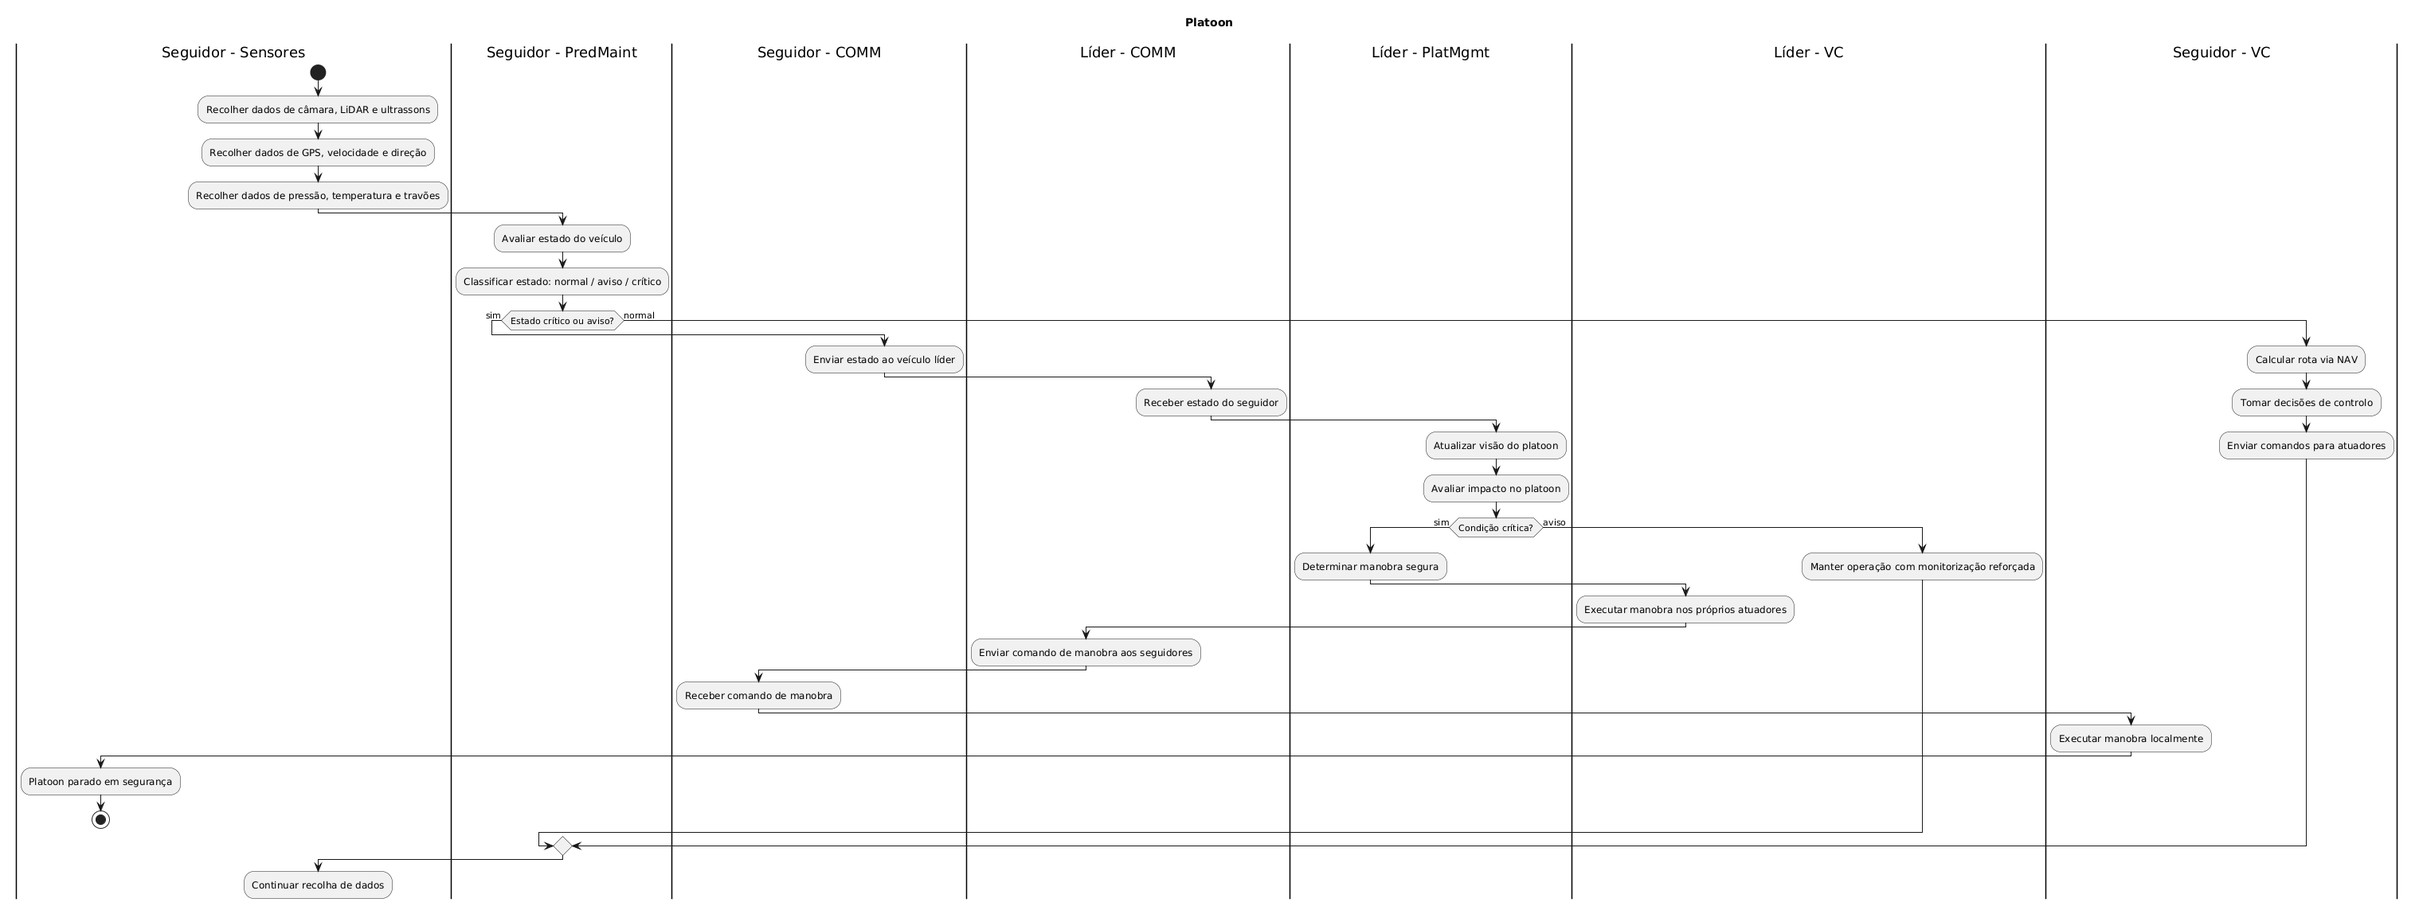
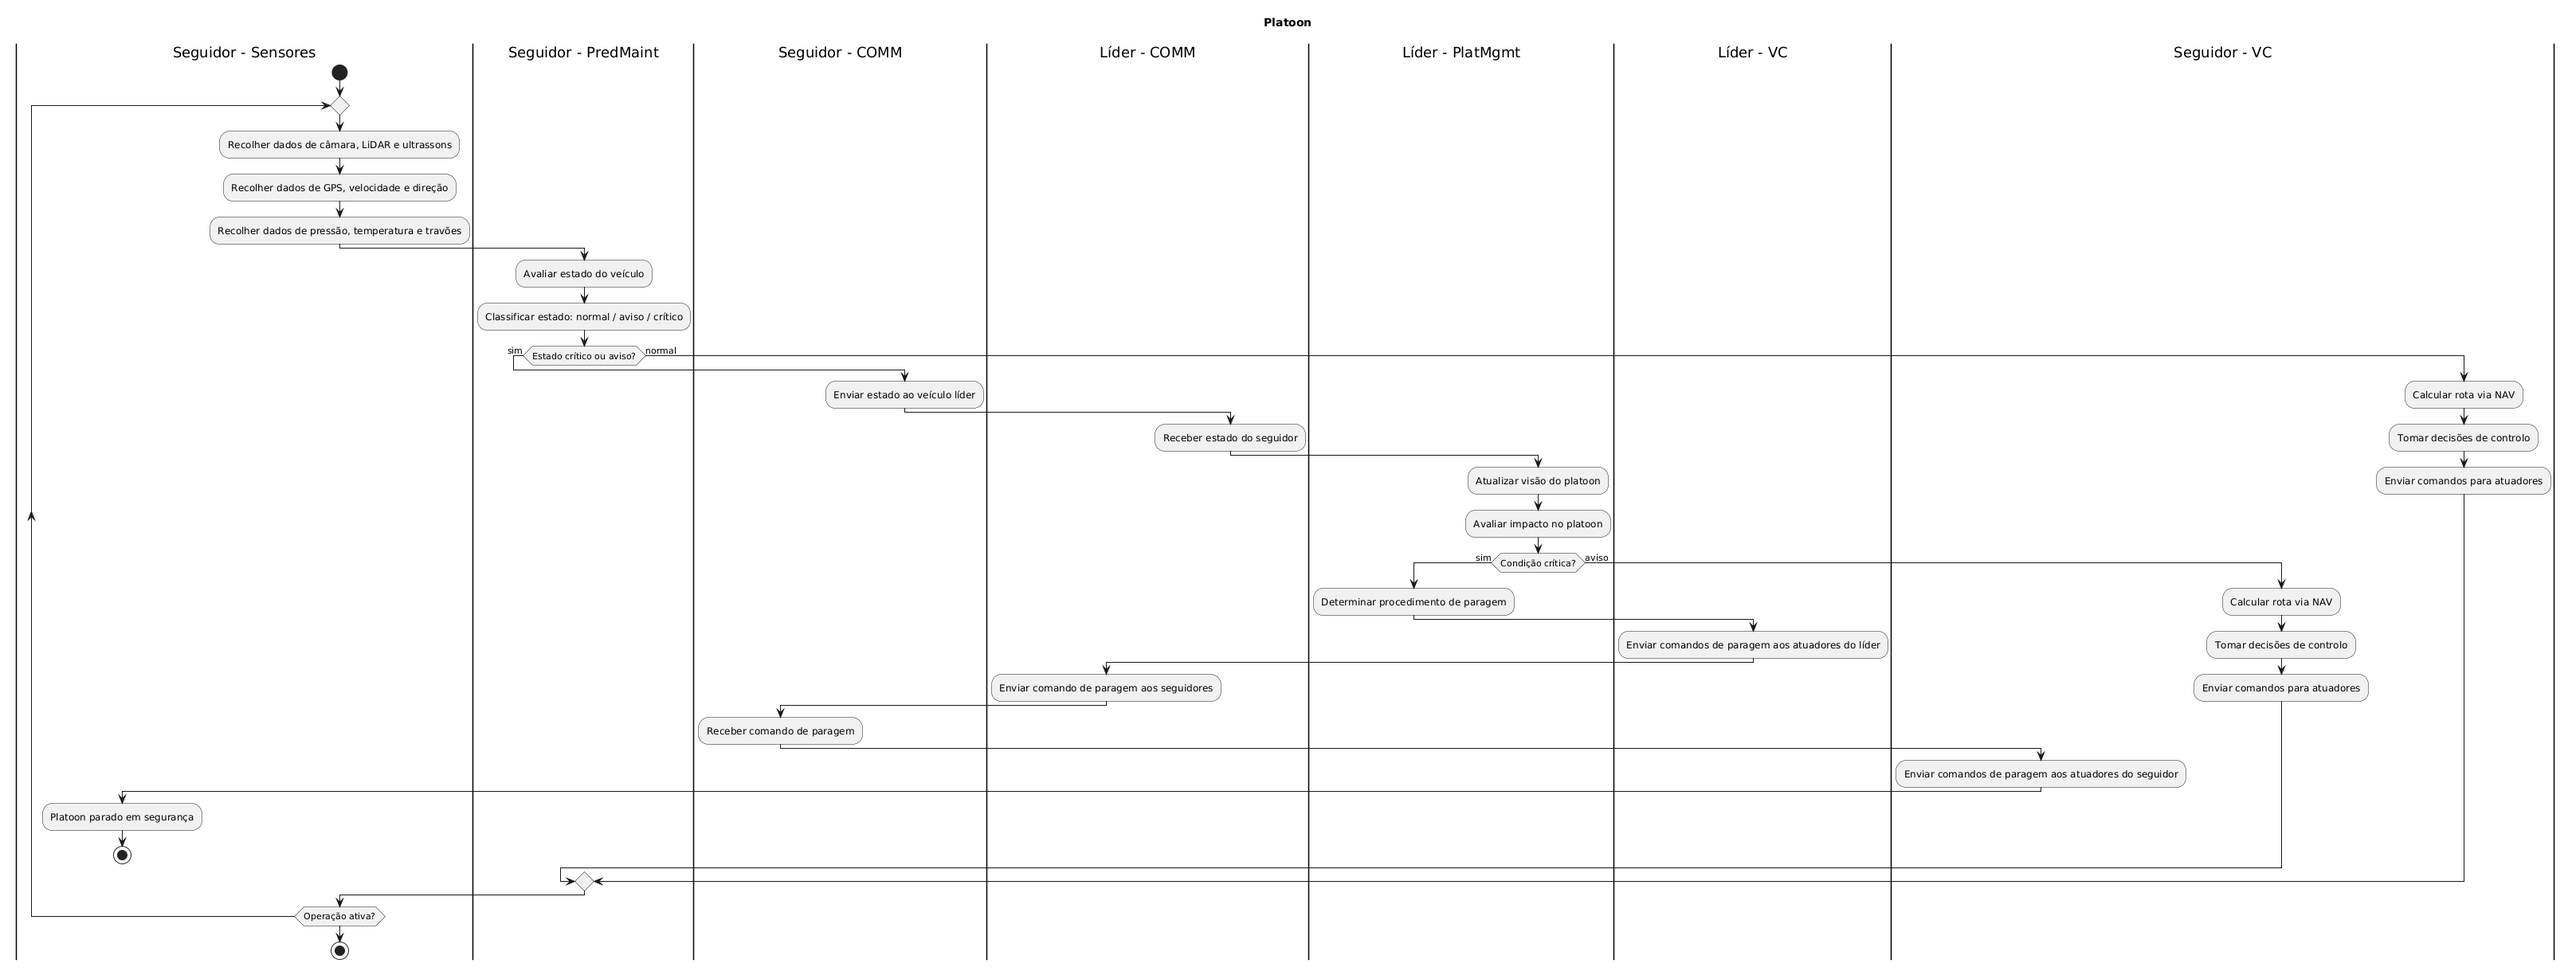
update report

diff --git a/sprint2/readme.md b/sprint2/readme.md
@@ -76,7 +76,6 @@ Para visualização do planeamento deste sprint, apresentamos o seguinte diagram
 
 ## 2. VEVCA
 
-
 ### 2.1 Melhorias Sprint 1
 
 #### Descrição dos componentes
@@ -189,18 +188,36 @@ Com base nos principais nós da arquitetura proposta, foram identificados alguns
 
 ##### Análise HAZOP
 
-| Nó/Função | Parâmetro | Palavra-guia | Desvio | Possíveis causas | Possíveis consequências | Salvaguardas existentes/propostas | Recomendações |
-|---|---|---|---|---|---|---|---|
-| Sensores de perceção | Dados de câmaras, LiDAR e sensores ultrassónicos | Não | Sem dados de perceção disponíveis | Falha de sensor, câmara obstruída, falha do LiDAR, falha de cablagem, falha de entrada na ECU | O veículo pode não detetar obstáculos, limites da via ou veículos próximos | Verificação automática dos sensores e deteção de ausência de dados | Avisar o VC quando os dados de perceção não estiverem disponíveis e impedir decisões baseadas nesses dados |
-| Processamento de perceção | Objetos / limites da via detetados | Errado | Obstáculos ou limites da via são detetados incorretamente | Mau tempo, ruído nos sensores, erro de calibração, falha no algoritmo de perceção | Decisão incorreta de trajetória, distância insegura entre veículos, possível colisão | Comparação entre câmara, LiDAR e sensores ultrassónicos | Confirmar objetos e limites da via com mais do que um sensor antes de enviar a informação ao VC |
-| Localização | Posição do veículo | Errado | A posição do veículo é estimada incorretamente | Erro de GPS, perda de sinal, inconsistência com o mapa, falha no algoritmo de localização | Seguimento incorreto da trajetória ou estimativa incorreta da posição do veículo no platoon | Comparação entre GPS, velocidade das rodas e dados de movimento | Se a posição não for fiável, usar dados de movimento recentes e avisar o PlatMgmt |
-| Sensores de movimento | Velocidade / ângulo de direção | Errado | O estado de movimento do veículo é estimado incorretamente | Falha no sensor de velocidade das rodas, falha no sensor de direção, erro de calibração, leituras desatualizadas | O VC pode calcular comandos inseguros de aceleração, travagem ou direção | Verificação de limites aceitáveis, timestamps e comparação com leituras anteriores | Rejeitar medições fora dos valores esperados ou incoerentes com o estado anterior do veículo |
-| Manutenção preditiva | Estado de saúde do veículo | Não | A avaria não é detetada | Falha no PredMaint, falta de dados de diagnóstico, falha de sensor | O veículo continua a operar com uma falha não detetada | Verificações periódicas do estado do veículo | Verificar pressão dos pneus, temperatura do motor e estado dos travões em cada "ciclo" de monitorização |
-| Manutenção preditiva | Severidade da avaria | Errado | Avaria crítica classificada como não crítica | Regra de classificação mal definida, falha no algoritmo, dados desatualizados, entrada incorreta de sensores | O platoon pode continuar a operar quando deveria parar | Verificação dos valores dos sensores e comparação com valores esperados | Quando os dados forem incertos ou incompletos, classificar a situação como mais grave e informar o líder |
-| Comunicação seguidor-líder | Tempo da mensagem de estado | Tarde | O estado de avaria do seguidor chega demasiado tarde ao líder | Atraso na rede, perda de pacotes, congestionamento de comunicação, sobrecarga da ECU | O líder atualiza o estado do platoon tarde demais e pode atrasar a decisão de paragem | Timestamps nas mensagens e deteção de atraso | Definir um tempo máximo para receber mensagens de avaria, se esse tempo for excedido, o líder deve assumir perda de informação |
-| Comunicação seguidor-líder | Mensagem de estado | Não | A mensagem de estado do seguidor não é recebida pelo líder | Falha de comunicação, falha da antena, perda de pacotes, falha da ECU de comunicação | O líder fica com uma visão incompleta do platoon e pode não reagir à avaria do seguidor | Mensagens periódicas de presença, confirmação de receção (ACK) e reenvio de mensagens críticas | Se o líder deixar de receber mensagens de um seguidor, deve marcar esse veículo como não fiável e atualizar o estado do platoon |
-| Gestão do platoon | Visão do estado do platoon | Errado | O líder mantém uma visão incorreta do platoon | Dados desatualizados, dados atribuídos ao veículo errado, erro de sincronização, mensagem corrompida | O líder pode tomar uma decisão insegura ao nível do platoon | Verificação de timestamps, origem das mensagens e coerência entre estados dos veículos | Rejeitar mensagens antigas, corrompidas ou incoerentes antes de atualizar a visão do platoon |
-| Controlo do veículo / atuadores | Comando de paragem / controlo | Não | O comando de paragem ou controlo não é executado | Falha no VC, falha na ECU do atuador, falha de interface, falha na direção, travagem ou powertrain | O veículo ou o platoon pode não conseguir parar após uma avaria crítica | Confirmação de comandos e feedback dos atuadores | Exigir confirmação dos atuadores, se a confirmação não for recebida, o sistema deve repetir o comando e alertar o líder |
+| Nó/Função                       | Parâmetro                                        | Palavra-guia | Desvio                                                        | Possíveis causas                                                                                                 | Possíveis consequências                                                                     | Salvaguardas existentes/propostas                                                              | Recomendações                                                                                                                   | Responsável                                                                     |
+| ------------------------------- | ------------------------------------------------ | ------------ | ------------------------------------------------------------- | ---------------------------------------------------------------------------------------------------------------- | ------------------------------------------------------------------------------------------- | ---------------------------------------------------------------------------------------------- | ------------------------------------------------------------------------------------------------------------------------------- | ------------------------------------------------------------------------------- |
+| Sensores de perceção            | Dados de câmaras, LiDAR e sensores ultrassónicos | Não          | Sem dados de perceção disponíveis                             | Falha de sensor, câmara obstruída, falha do LiDAR, falha de cablagem, falha de entrada na ECU                    | O veículo pode não detetar obstáculos, limites da via ou veículos próximos                  | Verificação automática dos sensores e deteção de ausência de dados                             | Avisar o VC quando os dados de perceção não estiverem disponíveis e impedir decisões baseadas nesses dados                      | Engenheiro mecatrónico + Functional safety engineer                             |
+| Processamento de perceção       | Objetos / limites da via detetados               | Errado       | Obstáculos ou limites da via são detetados incorretamente     | Mau tempo, ruído nos sensores, erro de calibração, falha no algoritmo de perceção                                | Decisão incorreta de trajetória, distância insegura entre veículos, possível colisão        | Comparação entre câmara, LiDAR e sensores ultrassónicos                                        | Confirmar objetos e limites da via com mais do que um sensor antes de enviar a informação ao VC                                 | Machine learning engineer + engenheiro mecatrónico                              |
+| Localização                     | Posição do veículo                               | Errado       | A posição do veículo é estimada incorretamente                | Erro de GPS, perda de sinal, inconsistência com o mapa, falha no algoritmo de localização                        | Seguimento incorreto da trajetória ou estimativa incorreta da posição do veículo no platoon | Comparação entre GPS, velocidade das rodas e dados de movimento                                | Se a posição não for fiável, usar dados de movimento recentes e avisar o PlatMgmt                                               | Engenheiro de software + Planning/control engineer                              |
+| Sensores de movimento           | Velocidade / ângulo de direção                   | Errado       | O estado de movimento do veículo é estimado incorretamente    | Falha no sensor de velocidade das rodas, falha no sensor de direção, erro de calibração, leituras desatualizadas | O VC pode calcular comandos inseguros de aceleração, travagem ou direção                    | Verificação de limites aceitáveis, timestamps e comparação com leituras anteriores             | Rejeitar medições fora dos valores esperados ou incoerentes com o estado anterior do veículo                                    | Engenheiro mecatrónico + Testing/validation engineer                            |
+| Manutenção preditiva            | Estado de saúde do veículo                       | Não          | A avaria não é detetada                                       | Falha no PredMaint, falta de dados de diagnóstico, falha de sensor                                               | O veículo continua a operar com uma falha não detetada                                      | Verificações periódicas do estado do veículo                                                   | Verificar pressão dos pneus, temperatura do motor e estado dos travões em cada "ciclo" de monitorização                         | Machine learning engineer + Functional safety engineer                          |
+| Manutenção preditiva | Severidade da avaria | Errado | Avaria crítica classificada como não crítica | Regra de classificação mal definida, falha no algoritmo, dados desatualizados, entrada incorreta de sensores | O platoon pode continuar a operar quando deveria parar | Verificação dos valores dos sensores e comparação com valores esperados | Quando os dados forem incertos ou incompletos, classificar a situação como mais grave e informar o líder | Functional safety engineer + tech lead |
+| Comunicação seguidor-líder      | Tempo da mensagem de estado                      | Tarde        | O estado de avaria do seguidor chega demasiado tarde ao líder | Atraso na rede, perda de pacotes, congestionamento de comunicação, sobrecarga da ECU                             | O líder atualiza o estado do platoon tarde demais e pode atrasar a decisão de paragem       | Timestamps nas mensagens e deteção de atraso                                                   | Definir um tempo máximo para receber mensagens de avaria, se esse tempo for excedido, o líder deve assumir perda de informação  | Engenheiro de software + Testing/validation engineer                            |
+| Comunicação seguidor-líder      | Mensagem de estado                               | Não          | A mensagem de estado do seguidor não é recebida pelo líder    | Falha de comunicação, falha da antena, perda de pacotes, falha da ECU de comunicação                             | O líder fica com uma visão incompleta do platoon e pode não reagir à avaria do seguidor     | Mensagens periódicas de presença, confirmação de receção (ACK) e reenvio de mensagens críticas | Se o líder deixar de receber mensagens de um seguidor, deve marcar esse veículo como não fiável e atualizar o estado do platoon | Engenheiro de software + engenheiro eletrotécnico                               |
+| Gestão do platoon               | Visão do estado do platoon                       | Errado       | O líder mantém uma visão incorreta do platoon                 | Dados desatualizados, dados atribuídos ao veículo errado, erro de sincronização, mensagem corrompida             | O líder pode tomar uma decisão insegura ao nível do platoon                                 | Verificação de timestamps, origem das mensagens e coerência entre estados dos veículos         | Rejeitar mensagens antigas, corrompidas ou incoerentes antes de atualizar a visão do platoon                                    | Engenheiro de software + Functional safety engineer                             |
+| Controlo do veículo / atuadores | Comando de paragem / controlo                    | Não          | O comando de paragem ou controlo não é executado              | Falha no VC, falha na ECU do atuador, falha de interface, falha na direção, travagem ou powertrain               | O veículo ou o platoon pode não conseguir parar após uma avaria crítica                     | Confirmação de comandos e feedback dos atuadores                                               | Exigir confirmação dos atuadores, se a confirmação não for recebida, o sistema deve repetir o comando e alertar o líder         | Planning/control engineer + engenheiro mecatrónico + Functional safety engineer |
+
+As funções indicadas na coluna “Responsável” representam os perfis que ficariam encarregues de acompanhar, implementar ou validar as recomendações identificadas na análise HAZOP:
+
+* **Engenheiro de software**: responsável pelo desenvolvimento da lógica dos módulos do sistema, incluindo comunicação, navegação, gestão do platoon e tratamento de mensagens entre veículos.
+
+* **Engenheiro mecatrónico**: responsável pela integração entre sensores, atuadores e componentes físicos do veículo, garantindo que os dados recolhidos e as ações executadas correspondem ao comportamento esperado.
+
+* **Engenheiro eletrotécnico**: responsável pelos componentes elétricos e eletrónicos do sistema, como ECUs, cablagem, alimentação, antenas e interfaces físicas de comunicação.
+
+* **Machine learning engineer**: responsável por algoritmos baseados em dados, como apoio à perceção, deteção de padrões e classificação de estados ou falhas do veículo.
+
+* **Planning/control engineer**: responsável por transformar a informação recebida dos sensores e dos módulos de decisão em ações de controlo, como direção, travagem, aceleração ou manobras.
+
+* **Functional safety engineer**: responsável por analisar riscos, validar medidas de mitigação e garantir que o sistema reage de forma segura perante falhas críticas.
+
+* **Testing/validation engineer**: responsável por definir e executar testes para verificar se sensores, módulos de software, comunicação e atuadores funcionam corretamente em cenários normais e de falha.
+
+* **Tech lead**: responsável por coordenar as decisões técnicas, definir prioridades de implementação e garantir que as recomendações são acompanhadas pela equipa nas fases seguintes do projeto.
 
 Com base nos desvios identificados e nas recomendações definidas, alguns requisitos existentes foram refinados e novos requisitos de qualidade foram adicionados para garantir que o sistema responde adequadamente às falhas identificadas.
 
